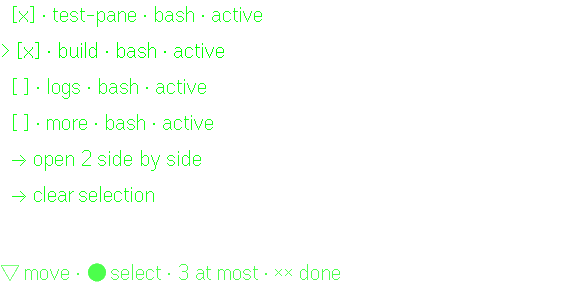
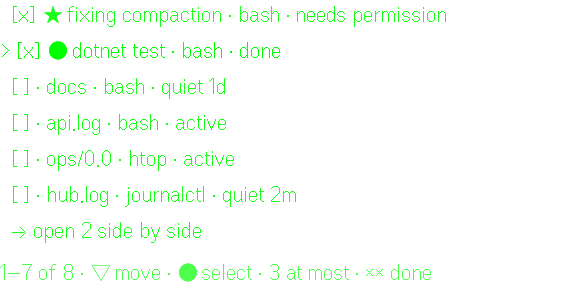
Listing screenshots from the demo hub; the answers to a permission prompt
Seven of the store shots now come from the simulator pointed at a demo
hub with synthetic panes; the lens and the spoken replies stay from the
end-to-end run, whose Claude Code screen is the real program. The table
says where each comes from and the pick order for the portal. The
description's count was stale.

diff --git a/docs/store-listing.md b/docs/store-listing.md
@@ -38,7 +38,7 @@ scripts/pack.sh https://<your hub> <your package id> muxway.ehpk
 Your tmux panes, and a word back, on the G2
 ```
 
-**Description** (1843 / 2000 characters)
+**Description** (1910 / 2000 characters)
 
 ```
 muxway puts your tmux panes on the Even G2: see what is running on your machines, read the last lines of a pane, and answer it, without reaching for a laptop.
@@ -109,24 +109,31 @@ Keep it up until the review clears.
 
 ## 7. Screenshots
 
-From the simulator against the test hub, 576 x 288, synthetic panes
-(`alice-laptop`, `work/0.0`, a Claude Code fixture). Taken by
-`scripts/store-shots.sh`.
+From the simulator, 576 x 288, synthetic panes only. Most are taken
+against a demo hub with made-up content (two hosts, a C# project under
+test, a scripted Claude Code screen, a log), through the simulator's
+automation API with the test build pointed at that hub. The lens and
+the spoken replies come from the end-to-end run (`scripts/store-shots.sh`),
+since the demo hub has no transcriber and its Claude Code screen is a
+shell script, so the hub does not name the program `claude`.
 
-| File | Shows |
-|---|---|
-| `store/shots/01-list.png` | the pane list: panes waiting first, with their words |
-| `store/shots/02-selected.png` | two rows held, the open and clear rows under them |
-| `store/shots/03-split.png` | two panes side by side, one marked |
-| `store/shots/04-pane.png` | a pane, following, under its title |
-| `store/shots/05-lens.png` | Claude Code through the lens: the conversation, no chrome |
-| `store/shots/06-answers.png` | the answers, Claude Code's suggestion first |
-| `store/shots/07-listening.png` | listening, with the graph of your voice |
-| `store/shots/08-heard.png` | the transcript read back in its box |
-| `store/shots/09-banner.png` | a notification banner at the foot of a pane |
-| `store/shots/10-phone.png` | the phone screen after save & test |
+| File | Shows | From |
+|---|---|---|
+| `store/shots/01-list.png` | the pane list: a pane that needs permission and one that is done first, with their words | demo hub |
+| `store/shots/02-selected.png` | two rows held, the open row under them | demo hub |
+| `store/shots/03-split.png` | two panes side by side, the first marked | demo hub |
+| `store/shots/04-pane.png` | a pane under its title: Claude Code's permission prompt, folded for the glasses | demo hub |
+| `store/shots/05-lens.png` | Claude Code through the lens: the conversation, no chrome | end-to-end run |
+| `store/shots/06-answers.png` | the answers, Claude Code's suggestion first | end-to-end run |
+| `store/shots/07-listening.png` | listening, with the graph of your voice | end-to-end run |
+| `store/shots/08-heard.png` | the transcript read back in its box | end-to-end run |
+| `store/shots/09-banner.png` | a notification banner at the foot of a pane | demo hub |
+| `store/shots/10-phone.png` | the phone screen after save & test | demo hub |
+| `store/shots/11-answers-permission.png` | the answers to a permission prompt: Enter, y, n, Claude Code's 1 2 3 | demo hub |
 
-Pick `01`, `03`, `04`, `05`, `07`, `08` and `10` for the listing.
+Pick `01`, `03`, `04`, `11`, `05`, `07`, `09` and `10` for the listing,
+in that order: the list, the columns, a pane, its answers, the lens,
+listening, a banner, the phone.
 
 ## 8. Icon
 
